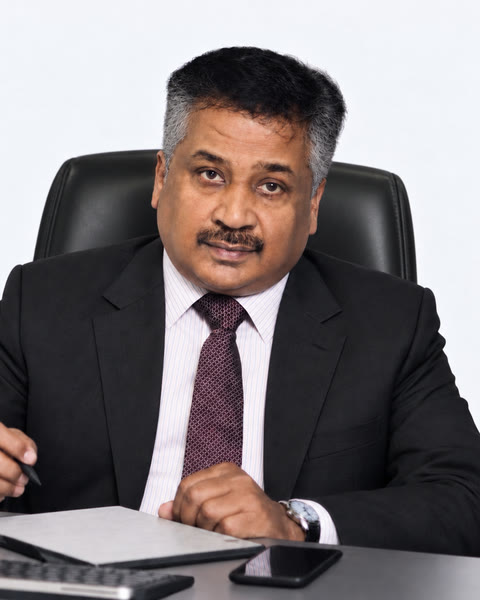
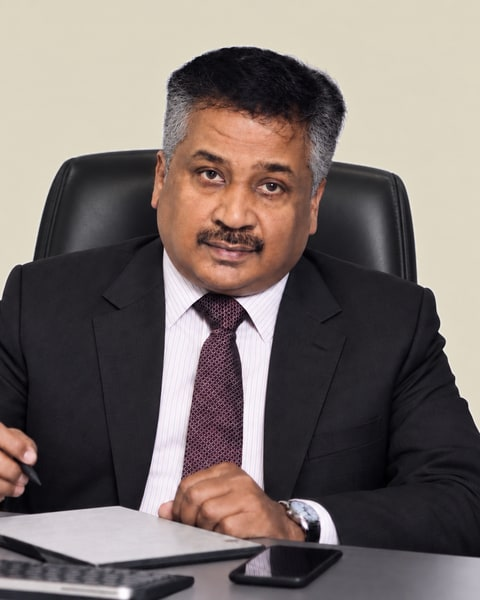
Leaders: P. Sundararajan photo on the same beige background as the others

Changed region(s): [[0.0, 0.0, 1.0, 0.72]]

diff --git a/index.html b/index.html
@@ -399,7 +399,7 @@ height="0" width="0" style="display:none;visibility:hidden"></iframe></noscript>
         <div class="lt-slide" aria-roledescription="carousel" aria-label="Leadership team">
           <ul class="lt-track">
             <li class="lt-item active" data-i="0">
-              <div class="lt-img-wrap"><img class="lt-img" src="images/team/p-sundararajan.jpg?v=4" alt="P. Sundararajan, Managing Director"><canvas class="lt-mask" width="480" height="600" aria-hidden="true"></canvas></div>
+              <div class="lt-img-wrap"><img class="lt-img" src="images/team/p-sundararajan.jpg?v=5" alt="P. Sundararajan, Managing Director"><canvas class="lt-mask" width="480" height="600" aria-hidden="true"></canvas></div>
               <div class="lt-item-text"><h2 class="lt-name">P. Sundararajan</h2><p class="lt-pos">Managing Director, Avana Group</p><a class="lt-in" href="https://www.linkedin.com/in/sundararajan-pandian-66964923" target="_blank" rel="noopener" aria-label="P. Sundararajan on LinkedIn (opens in a new tab)"><svg viewBox="0 0 24 24" fill="currentColor" aria-hidden="true"><path d="M4.98 3.5a2.5 2.5 0 110 5 2.5 2.5 0 010-5zM3 9.5h4v11H3v-11zm6.5 0h3.8v1.6h.06c.53-1 1.83-2.06 3.77-2.06 4.03 0 4.77 2.65 4.77 6.1v5.36h-4v-4.75c0-1.13-.02-2.59-1.58-2.59-1.58 0-1.82 1.23-1.82 2.5v4.84h-4v-11z"/></svg></a></div>
             </li>
             <li class="lt-item" data-i="1">
